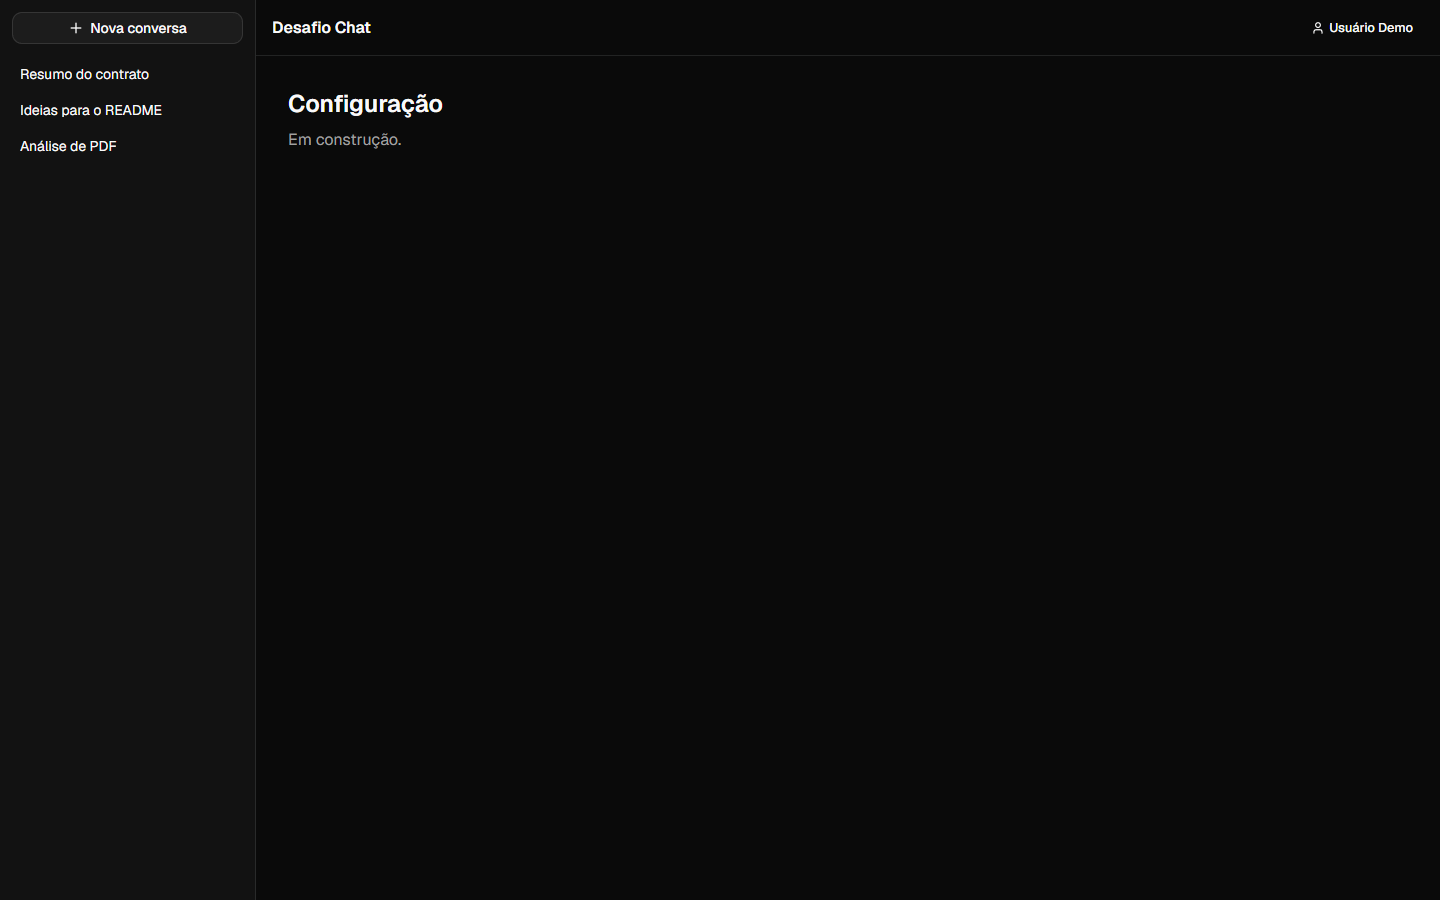
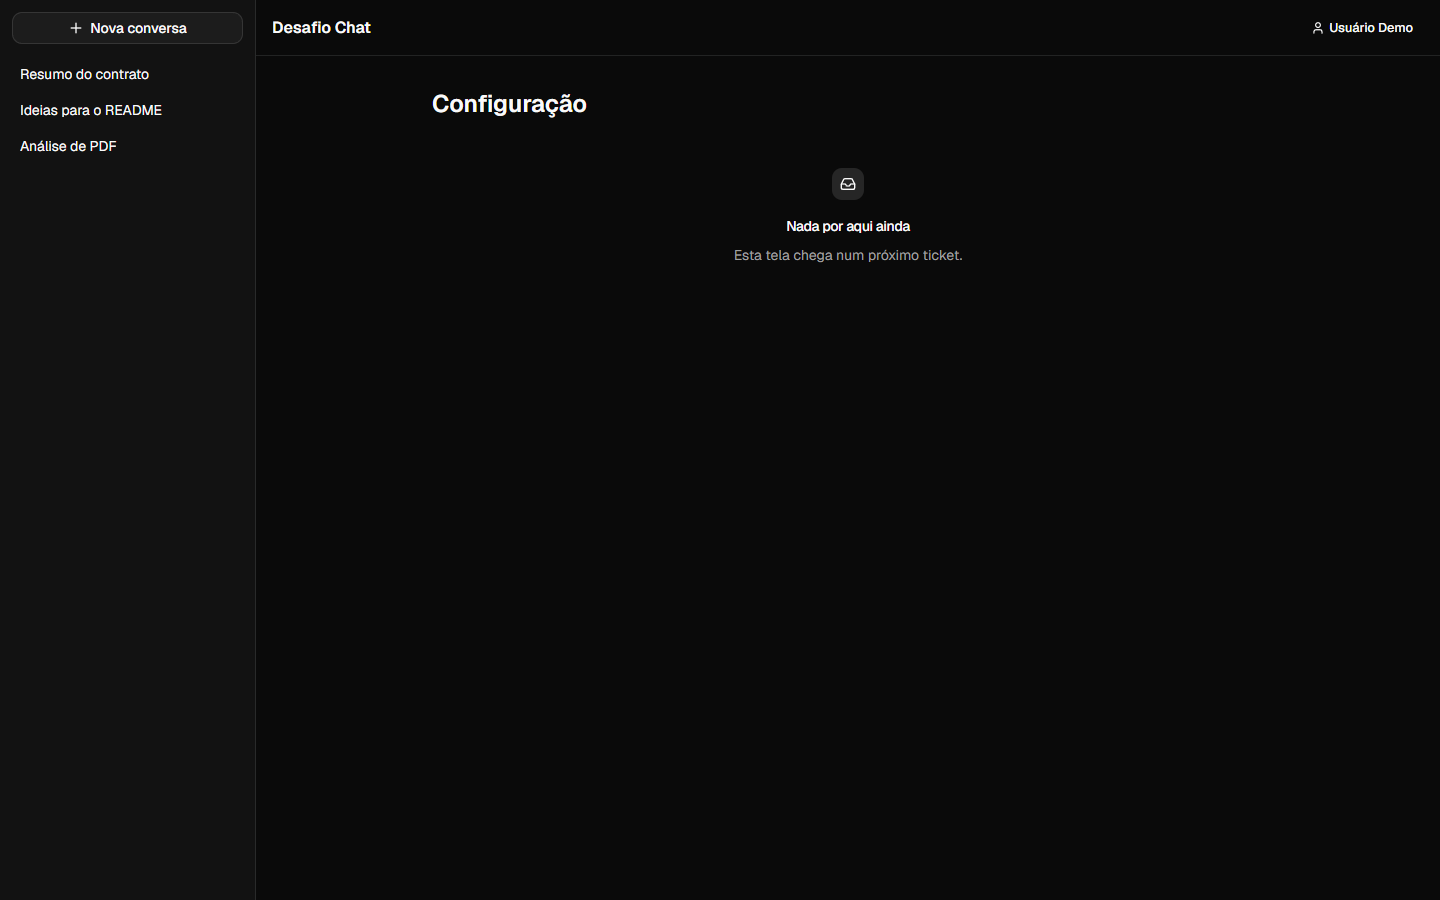
feat(07a): front-scaffold com guia de UI

Changed region(s): [[0.1875, 0.0933, 0.4062, 0.1867], [0.5, 0.2489, 0.6562, 0.3111], [0.5625, 0.1867, 0.625, 0.2178]]

diff --git a/web/src/components/ui/empty.tsx b/web/src/components/ui/empty.tsx
@@ -1,0 +1,103 @@
+import { cva, type VariantProps } from "class-variance-authority"
+import { cn } from "cn"
+
+function Empty({ className, ...props }: React.ComponentProps<"div">) {
+  return (
+    <div
+      data-slot="empty"
+      className={cn(
+        "flex w-full min-w-0 flex-1 flex-col items-center justify-center gap-4 rounded-xl border-dashed p-6 text-center text-balance",
+        className
+      )}
+      {...props}
+    />
+  )
+}
+
+function EmptyHeader({ className, ...props }: React.ComponentProps<"div">) {
+  return (
+    <div
+      data-slot="empty-header"
+      className={cn("flex max-w-sm flex-col items-center gap-2", className)}
+      {...props}
+    />
+  )
+}
+
+const emptyMediaVariants = cva(
+  "mb-2 flex shrink-0 items-center justify-center [&_svg]:pointer-events-none [&_svg]:shrink-0",
+  {
+    variants: {
+      variant: {
+        default: "bg-transparent",
+        icon: "flex size-8 shrink-0 items-center justify-center rounded-lg bg-muted text-foreground [&_svg:not([class*='size-'])]:size-4",
+      },
+    },
+    defaultVariants: {
+      variant: "default",
+    },
+  }
+)
+
+function EmptyMedia({
+  className,
+  variant = "default",
+  ...props
+}: React.ComponentProps<"div"> & VariantProps<typeof emptyMediaVariants>) {
+  return (
+    <div
+      data-slot="empty-icon"
+      data-variant={variant}
+      className={cn(emptyMediaVariants({ variant, className }))}
+      {...props}
+    />
+  )
+}
+
+function EmptyTitle({ className, ...props }: React.ComponentProps<"div">) {
+  return (
+    <div
+      data-slot="empty-title"
+      className={cn(
+        "font-heading text-sm font-medium tracking-tight",
+        className
+      )}
+      {...props}
+    />
+  )
+}
+
+function EmptyDescription({ className, ...props }: React.ComponentProps<"p">) {
+  return (
+    <div
+      data-slot="empty-description"
+      className={cn(
+        "text-sm/relaxed text-muted-foreground [&>a]:underline [&>a]:underline-offset-4 [&>a:hover]:text-primary",
+        className
+      )}
+      {...props}
+    />
+  )
+}
+
+function EmptyContent({ className, ...props }: React.ComponentProps<"div">) {
+  return (
+    <div
+      data-slot="empty-content"
+      className={cn(
+        "flex w-full max-w-sm min-w-0 flex-col items-center gap-2.5 text-sm text-balance",
+        className
+      )}
+      {...props}
+    />
+  )
+}
+
+export {
+  Empty,
+  EmptyHeader,
+  EmptyTitle,
+  EmptyDescription,
+  EmptyContent,
+  EmptyMedia,
+}

diff --git a/web/src/components/estados.tsx b/web/src/components/estados.tsx
@@ -1,0 +1,55 @@
+import type { ReactNode } from 'react'
+import { AlertCircleIcon, InboxIcon } from 'lucide-react'
+import { Button } from '@/components/ui/button'
+import { Empty, EmptyContent, EmptyDescription, EmptyHeader, EmptyMedia, EmptyTitle } from '@/components/ui/empty'
+import { Skeleton } from '@/components/ui/skeleton'
+import { Spinner } from '@/components/ui/spinner'
+
+// Estados de tela reutilizáveis (docs/UI-GUIA.md): vazio, carregando, erro.
+
+export function EstadoVazio({ titulo, descricao, acao }: { titulo: string; descricao: string; acao?: ReactNode }) {
+  return (
+    <Empty>
+      <EmptyHeader>
+        <EmptyMedia variant="icon">
+          <InboxIcon />
+        </EmptyMedia>
+        <EmptyTitle>{titulo}</EmptyTitle>
+        <EmptyDescription>{descricao}</EmptyDescription>
+      </EmptyHeader>
+      {acao && <EmptyContent>{acao}</EmptyContent>}
+    </Empty>
+  )
+}
+
+export function EstadoCarregando() {
+  return (
+    <div className="flex flex-col gap-3" role="status" aria-label="Carregando">
+      <div className="flex items-center gap-2 text-sm text-muted-foreground">
+        <Spinner /> Carregando...
+      </div>
+      <Skeleton className="h-8 w-1/2" />
+      <Skeleton className="h-4 w-full" />
+      <Skeleton className="h-4 w-5/6" />
+    </div>
+  )
+}
+
+export function EstadoErro({ mensagem, onTentarDeNovo }: { mensagem: string; onTentarDeNovo: () => void }) {
+  return (
+    <Empty>
+      <EmptyHeader>
+        <EmptyMedia variant="icon">
+          <AlertCircleIcon className="text-destructive" />
+        </EmptyMedia>
+        <EmptyTitle>Algo deu errado</EmptyTitle>
+        <EmptyDescription>{mensagem}</EmptyDescription>
+      </EmptyHeader>
+      <EmptyContent>
+        <Button variant="outline" onClick={onTentarDeNovo}>
+          Tentar de novo
+        </Button>
+      </EmptyContent>
+    </Empty>
+  )
+}

diff --git a/web/src/pages/Login.tsx b/web/src/pages/Login.tsx
@@ -1,10 +1,12 @@
+import { useState } from 'react'
 import { useNavigate } from 'react-router'
 import { Button } from '@/components/ui/button'
 import { Input } from '@/components/ui/input'
 
-/** Login placeholder: não autentica, só navega para `/`. */
+/** Login e cadastro placeholder: não autentica, só navega para `/`. */
 export function Login() {
   const navigate = useNavigate()
+  const [cadastro, setCadastro] = useState(false)
   return (
     <div className="flex h-dvh items-center justify-center">
       <form
@@ -14,10 +16,22 @@ export function Login() {
           navigate('/')
         }}
       >
-        <h1 className="text-2xl font-semibold">Entrar</h1>
-        <Input type="email" placeholder="E-mail" />
-        <Input type="password" placeholder="Senha" />
-        <Button type="submit">Entrar</Button>
+        <h1 className="text-2xl font-semibold">{cadastro ? 'Criar conta' : 'Entrar'}</h1>
+        <label className="text-sm" htmlFor="email">E-mail</label>
+        <Input id="email" type="email" placeholder="voce@exemplo.com" />
+        <label className="text-sm" htmlFor="senha">Senha</label>
+        <Input id="senha" type="password" />
+        <Button type="submit">{cadastro ? 'Criar conta' : 'Entrar'}</Button>
+        <Button type="button" variant="link" onClick={() => setCadastro((c) => !c)}>
+          {cadastro ? 'Já tenho conta' : 'Criar uma conta'}
+        </Button>
+        <div className="rounded-md border p-3 text-sm">
+          <p className="font-medium">Conta demo</p>
+          <p className="text-muted-foreground">Entre sem cadastro para testar.</p>
+          <Button type="submit" variant="secondary" size="sm" className="mt-2 w-full">
+            Entrar com a conta demo
+          </Button>
+        </div>
       </form>
     </div>
   )

diff --git a/web/src/pages/Placeholder.tsx b/web/src/pages/Placeholder.tsx
@@ -1,9 +1,23 @@
-/** Tela placeholder até o ticket da funcionalidade. */
+import { useSearchParams } from 'react-router'
+import { EstadoCarregando, EstadoErro, EstadoVazio } from '@/components/estados'
+
+/**
+ * Tela placeholder até o ticket da funcionalidade.
+ * `?estado=carregando|erro` simula os outros estados; o padrão é vazio.
+ */
 export function Placeholder({ titulo }: { titulo: string }) {
+  const [params, setParams] = useSearchParams()
+  const estado = params.get('estado')
   return (
-    <div className="p-8">
-      <h1 className="text-2xl font-semibold">{titulo}</h1>
-      <p className="mt-2 text-muted-foreground">Em construção.</p>
+    <div className="mx-auto max-w-4xl p-8">
+      <h1 className="mb-6 text-2xl font-semibold">{titulo}</h1>
+      {estado === 'carregando' ? (
+        <EstadoCarregando />
+      ) : estado === 'erro' ? (
+        <EstadoErro mensagem="Não foi possível carregar os dados (mock)." onTentarDeNovo={() => setParams({})} />
+      ) : (
+        <EstadoVazio titulo="Nada por aqui ainda" descricao="Esta tela chega num próximo ticket." />
+      )}
     </div>
   )
 }

diff --git a/web/src/layout/AppLayout.tsx b/web/src/layout/AppLayout.tsx
@@ -20,6 +20,9 @@ const itensMenu = [
   { to: '/conectores', rotulo: 'Conectores' },
   { to: '/creditos', rotulo: 'Créditos' },
   { to: '/auditoria', rotulo: 'Auditoria' },
+  { to: '/compartilhados', rotulo: 'Compartilhados' },
+  { to: '/perfil', rotulo: 'Perfil' },
+  { to: '/admin', rotulo: 'Administração' },
 ]
 
 /** Layout base: sidebar de Conversas, header com menu do Usuário, conteúdo. */
@@ -36,6 +39,9 @@ export function AppLayout() {
           </Button>
         </div>
         <nav className="flex-1 overflow-y-auto px-2" aria-label="Conversas">
+          {conversasMock.length === 0 && (
+            <p className="px-3 py-2 text-sm text-muted-foreground">Nenhuma conversa ainda. Clique em Nova conversa.</p>
+          )}
           {conversasMock.map((c) => (
             <NavLink
               key={c.id}

diff --git a/web/src/App.tsx b/web/src/App.tsx
@@ -19,6 +19,9 @@ export default function App() {
         <Route path="/tools" element={<Placeholder titulo="Tools" />} />
         <Route path="/mcp" element={<Placeholder titulo="Servidores MCP" />} />
         <Route path="/conectores" element={<Placeholder titulo="Conectores" />} />
+        <Route path="/compartilhados" element={<Placeholder titulo="Compartilhados" />} />
+        <Route path="/perfil" element={<Placeholder titulo="Perfil" />} />
+        <Route path="/admin" element={<Placeholder titulo="Administração" />} />
         <Route path="*" element={<Placeholder titulo="Página não encontrada" />} />
       </Route>
     </Routes>

diff --git a/web/src/components/ui/skeleton.tsx b/web/src/components/ui/skeleton.tsx
@@ -1,0 +1,13 @@
+import { cn } from "cn"
+
+function Skeleton({ className, ...props }: React.ComponentProps<"div">) {
+  return (
+    <div
+      data-slot="skeleton"
+      className={cn("animate-pulse rounded-md bg-muted", className)}
+      {...props}
+    />
+  )
+}
+
+export { Skeleton }

diff --git a/docs/DECISOES-AUTONOMAS.md b/docs/DECISOES-AUTONOMAS.md
@@ -23,3 +23,6 @@ Decisões fora dos ADRs, tomadas pelo agente executor. Formato: ticket, decisão
 | 07a | Catch-all da SPA em `app/estaticos.py`, chamado na última linha de `main.py`. `/api/*` sem rota devolve 404, não HTML. Sem `web/dist`, não monta nada. | `StaticFiles(html=True)` montado em `/`. | `StaticFiles` não faz fallback de rota do front para `index.html`. Testes da API rodam sem build do front. |
 | 07a | Tema dark padrão com toggle próprio (classe `dark` no `<html>` + `localStorage`). | `next-themes`. | Duas funções bastam. Uma dependência a menos. |
 | 07a | Sem Evento de auditoria. | Emitir evento em acesso ao front. | Ticket não tem ação relevante do domínio: só serve arquivo estático e tela mock. |
+| 07a | `loader` do AI Elements não existe no registry. Carregando usa `Spinner` + `Skeleton` do shadcn. | Escrever loader próprio. | Componentes prontos do shadcn, sem código novo. |
+| 07a | Placeholders simulam estados por `?estado=carregando\|erro`; vazio é o padrão. Componentes em `web/src/components/estados.tsx`. | Estado só quando a API existir. | Guia exige estados visíveis; os tickets seguintes reusam os componentes. |
+| 07a | Brave lançado pelo `executablePath` dentro do Playwright MCP (confirmado por `navigator.brave`). | Mudar a config do MCP. | Config do harness não é deste ticket. |

diff --git a/.scratch/desafio/issues/07a-front-scaffold.md b/.scratch/desafio/issues/07a-front-scaffold.md
@@ -17,4 +17,5 @@ Não toque em `api/` além do mount de estáticos em `main.py` e da dependência
 ## Answer
 `web/` com Vite, React, Tailwind, shadcn radix-nova e AI Elements. Layout com sidebar mock, chat mock e menu do usuário. As 10 rotas estão navegáveis. Dark é o tema padrão, com toggle no menu (docs/UI-GUIA.md). O `Dockerfile` da raiz tem 2 stages. O FastAPI serve `web/dist` com fallback de SPA via `app/estaticos.py`. `/api/*` sem rota devolve 404.
 Ressalvas: o `response` do AI Elements virou `MessageResponse`. O único aviso do build é o de chunk grande (streamdown, 1,5 MB), igual ao spike. O container precisa de `DATABASE_URL` por env, porque o `.env` fica fora da imagem. Screenshots em `.scratch/desafio/screens/07a-*.png`.
+Rodada 2 (UI-GUIA): rotas `/compartilhados`, `/perfil` e `/admin`. Estados vazio, carregando e erro em `components/estados.tsx`, simulados por `?estado=`. Login com cadastro e conta demo. Screenshots refeitos no Brave.
 Sem `REVISAR(human)`: o ticket não tem `TODO(human)`.

diff --git a/.scratch/desafio/LEDGER.md b/.scratch/desafio/LEDGER.md
@@ -7,3 +7,4 @@
 | 06 | 2026-09-22T22:33:00-03:00 | 2026-09-22T22:55:00-03:00 | PASSOU 5/5 pytest test_chat (histórico do banco, tokens = usageMetadata gravado, 502 + llm_error); manual 2 turnos Gemini | feat(06) |
 | 06 | (ver ticket) | (ver ticket) | aceite OK; arquivos entraram no commit 2c738a6 por colisão de stage | 2c738a6 |
 | 07a | 2026-09-22T22:27:37-03:00 | 2026-09-22T22:42:32-03:00 | PASSOU: build sem erro de tipo; 5/5 pytest test_estaticos; docker build + run responde / (HTML) e /health; 10 rotas navegáveis no Playwright, dark 1440x900 | feat(07a) |
+| 07a | 2026-09-22T22:45:40-03:00 | 2026-09-22T22:45:40-03:00 | PASSOU (rodada 2, UI-GUIA): +/compartilhados /perfil /admin, estados vazio/carregando/erro, login com cadastro e demo; 15 screenshots no Brave dark 1440x900; build limpo; docker ok | feat(07a) |
